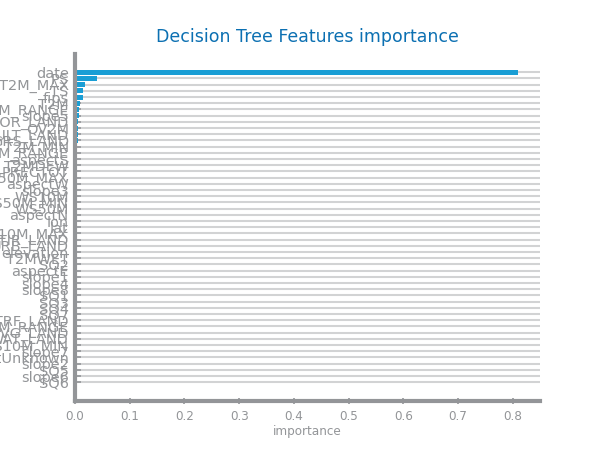
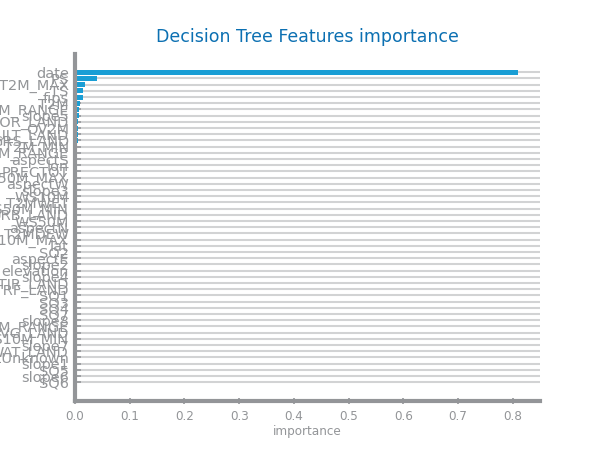
Add results of decision-tree for dataset2

Changed region(s): [[0.0, 0.4356, 0.12, 0.6533], [0.0, 0.6844, 0.12, 0.8089], [0.0, 0.3422, 0.12, 0.4044]]

diff --git a/decision_tree.py b/decision_tree.py
@@ -116,9 +116,9 @@ def decision_tree(filename, file, dataset, clas):
     # savefig('images/decision_tree/' + dataset + '/_overfitting_study.png')
 
 
-decision_tree('data/classification/data_for_DT_RF/minmax_diabetes',
-              'dataset1', 'dataset1', 'readmitted')
+# decision_tree('data/classification/data_for_DT_RF/minmax_diabetes',
+#               'dataset1', 'dataset1', 'readmitted')
 
-# decision_tree('data/classification/data_for_DT_RF/dataset2_minmax',
-#               'dataset2', 'dataset2', 'class')
+decision_tree('data/classification/data_for_DT_RF/dataset2_minmax',
+              'dataset2', 'dataset2', 'class')
 

diff --git a/data_dimensionality.py b/data_dimensionality.py
@@ -46,4 +46,5 @@ def variable_distribution(df, dataset):
 
 
 # data_dimensionality('data/classification/diabetic_data.csv', 'dataset1', 'encounter_id', '?')
-data_dimensionality('data/classification/drought.csv', 'dataset2', 'date', '')
+# data_dimensionality('data/classification/drought.csv', 'dataset2', 'date', '')
+data_dimensionality('data/classification/data_for_DT_RF/dataset2_minmax_test.csv', 'dataset2_minmax_test', 'date', '')
